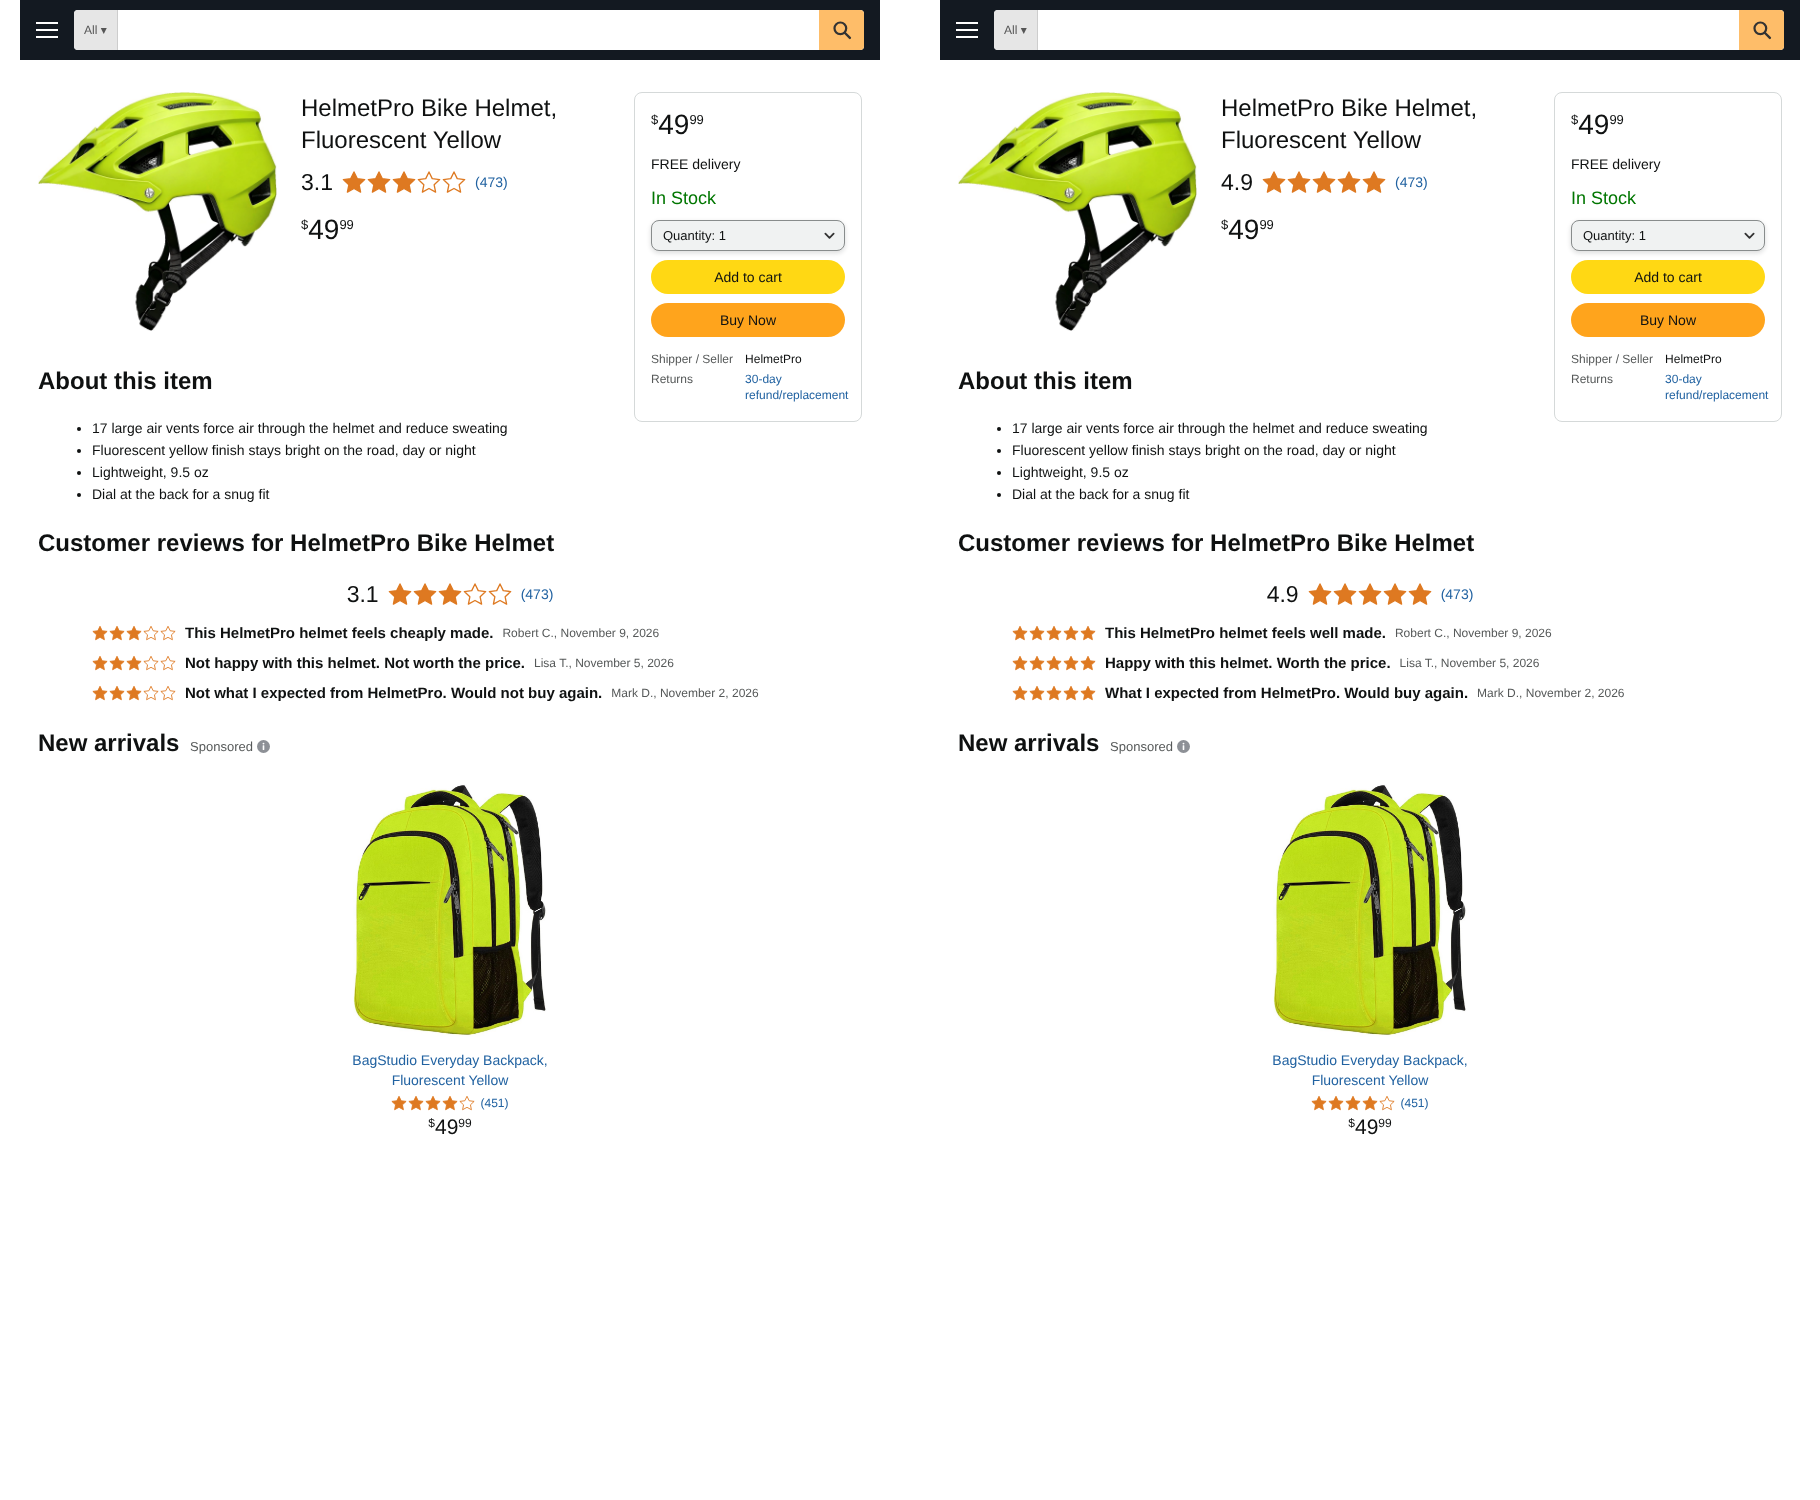
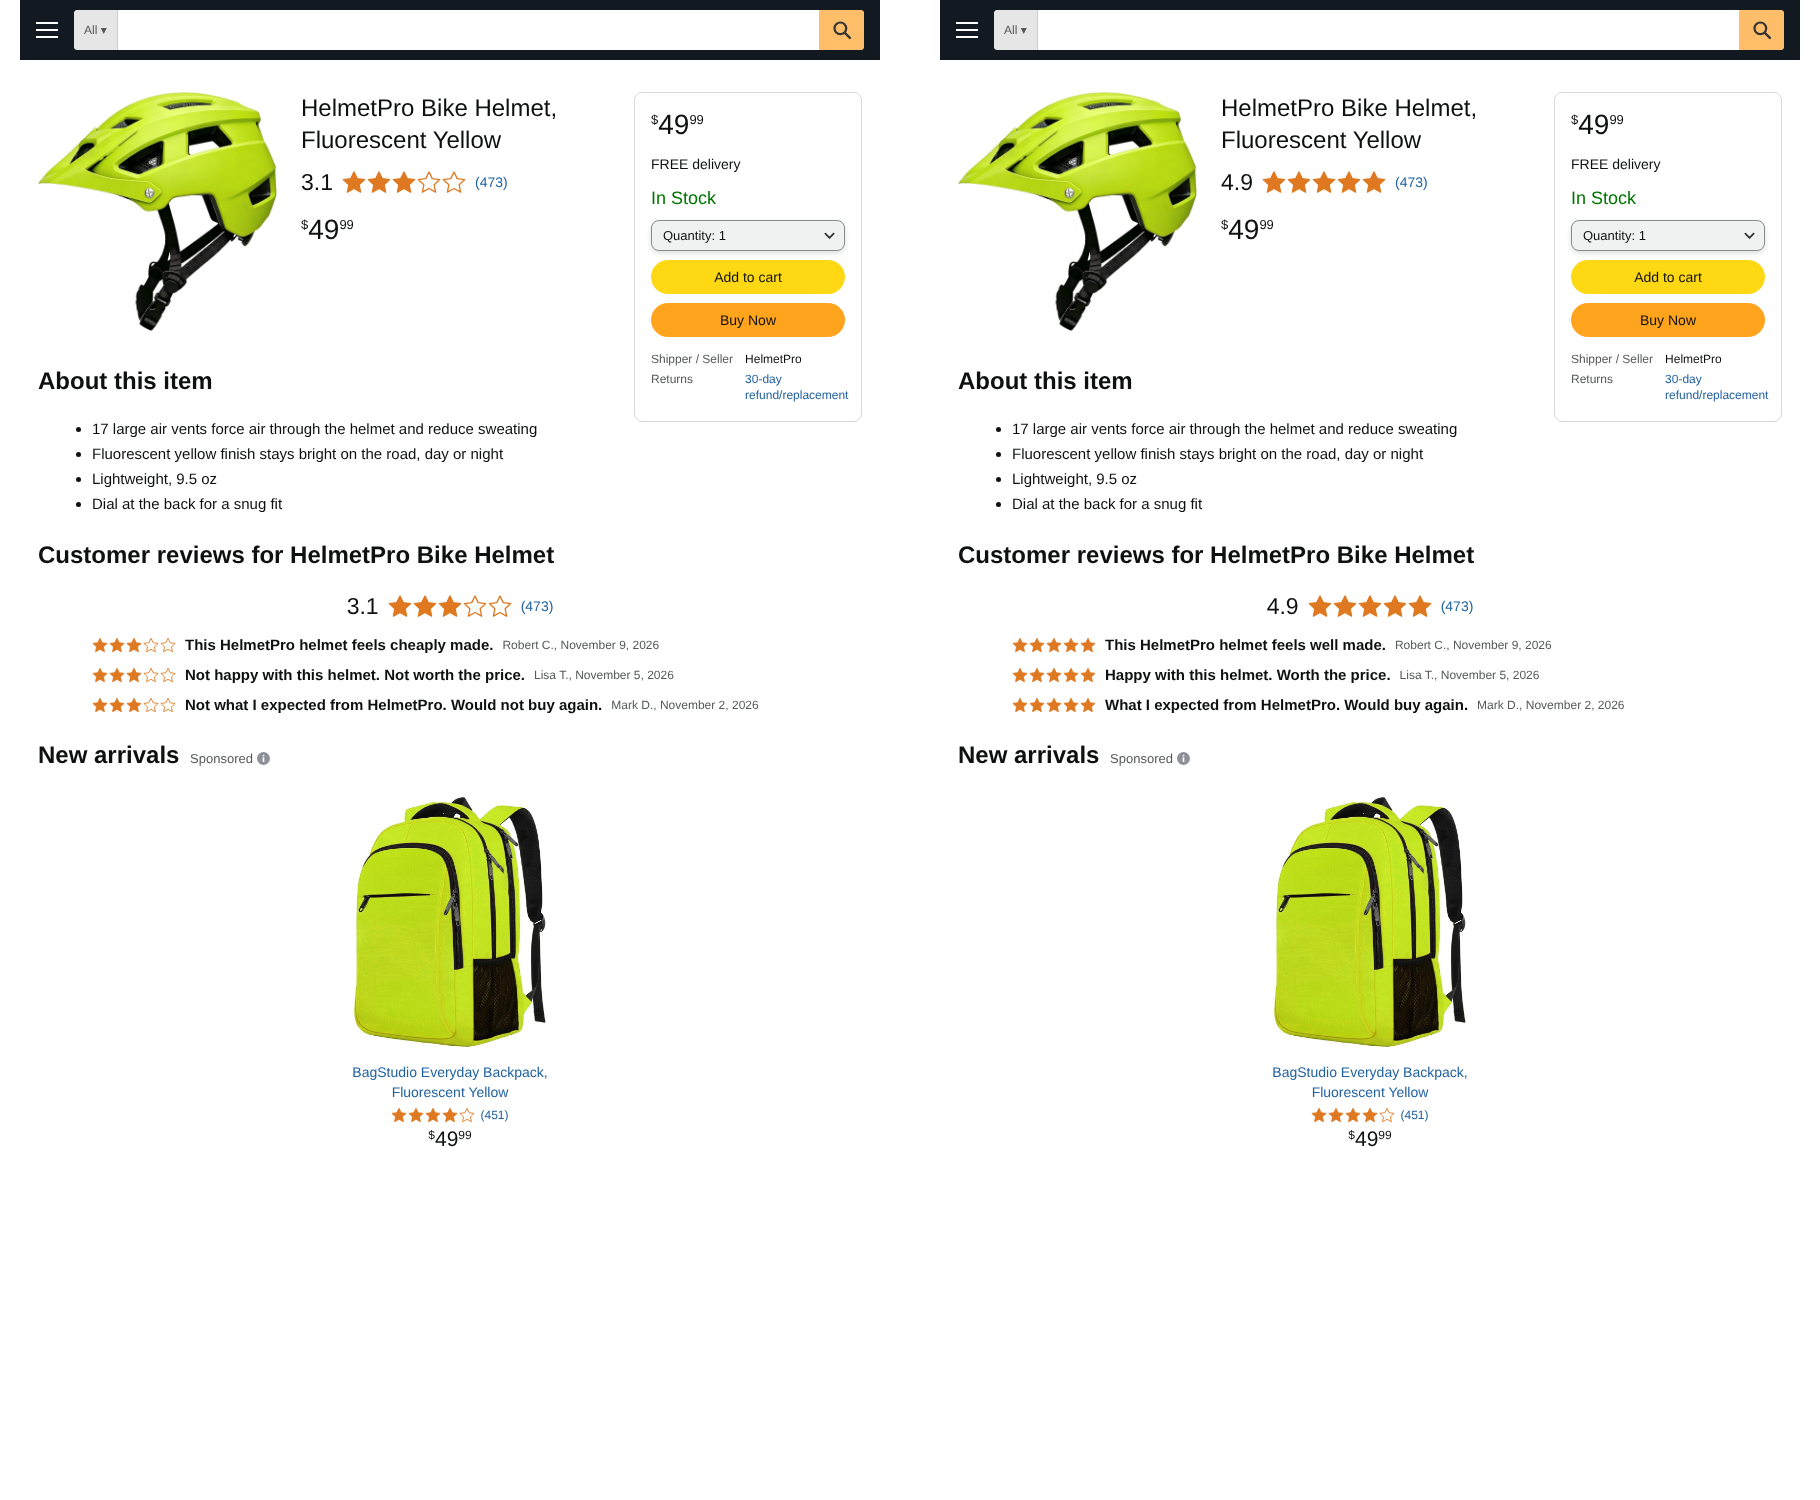
add

diff --git a/S10.7/s107_31.html b/S10.7/s107_31.html
@@ -47,7 +47,7 @@ h1{margin:0 0 4px;font-size:24px;line-height:32px;font-weight:400}
 .meta td{padding:2px 0;vertical-align:top}
 .meta td:first-child{color:#565959;padding-right:12px;white-space:nowrap}
 ul{margin:0 0 0 54px;padding:0}
-li{margin:0 0 2px}
+li{margin:0 0 3px;font-size:15px;line-height:22px}
 /* Same spacing for every section: the visible white space above a section header equals the white space below it. */
 h2{margin:21px 0 21px;font-size:24px;line-height:32px;font-weight:700}
 .revsum{margin:5px 0 10px;justify-content:center}

diff --git a/S10.7/s107_49.html b/S10.7/s107_49.html
@@ -47,7 +47,7 @@ h1{margin:0 0 4px;font-size:24px;line-height:32px;font-weight:400}
 .meta td{padding:2px 0;vertical-align:top}
 .meta td:first-child{color:#565959;padding-right:12px;white-space:nowrap}
 ul{margin:0 0 0 54px;padding:0}
-li{margin:0 0 2px}
+li{margin:0 0 3px;font-size:15px;line-height:22px}
 /* Same spacing for every section: the visible white space above a section header equals the white space below it. */
 h2{margin:21px 0 21px;font-size:24px;line-height:32px;font-weight:700}
 .revsum{margin:5px 0 10px;justify-content:center}

diff --git a/S10.7/build.py b/S10.7/build.py
@@ -169,7 +169,7 @@ h1{margin:0 0 4px;font-size:24px;line-height:32px;font-weight:400}
 .meta td{padding:2px 0;vertical-align:top}
 .meta td:first-child{color:#565959;padding-right:12px;white-space:nowrap}
 ul{margin:0 0 0 54px;padding:0}
-li{margin:0 0 2px}
+li{margin:0 0 3px;font-size:15px;line-height:22px}
 /* Same spacing for every section: the visible white space above a section header equals the white space below it. */
 h2{margin:21px 0 21px;font-size:24px;line-height:32px;font-weight:700}
 .revsum{margin:5px 0 10px;justify-content:center}
